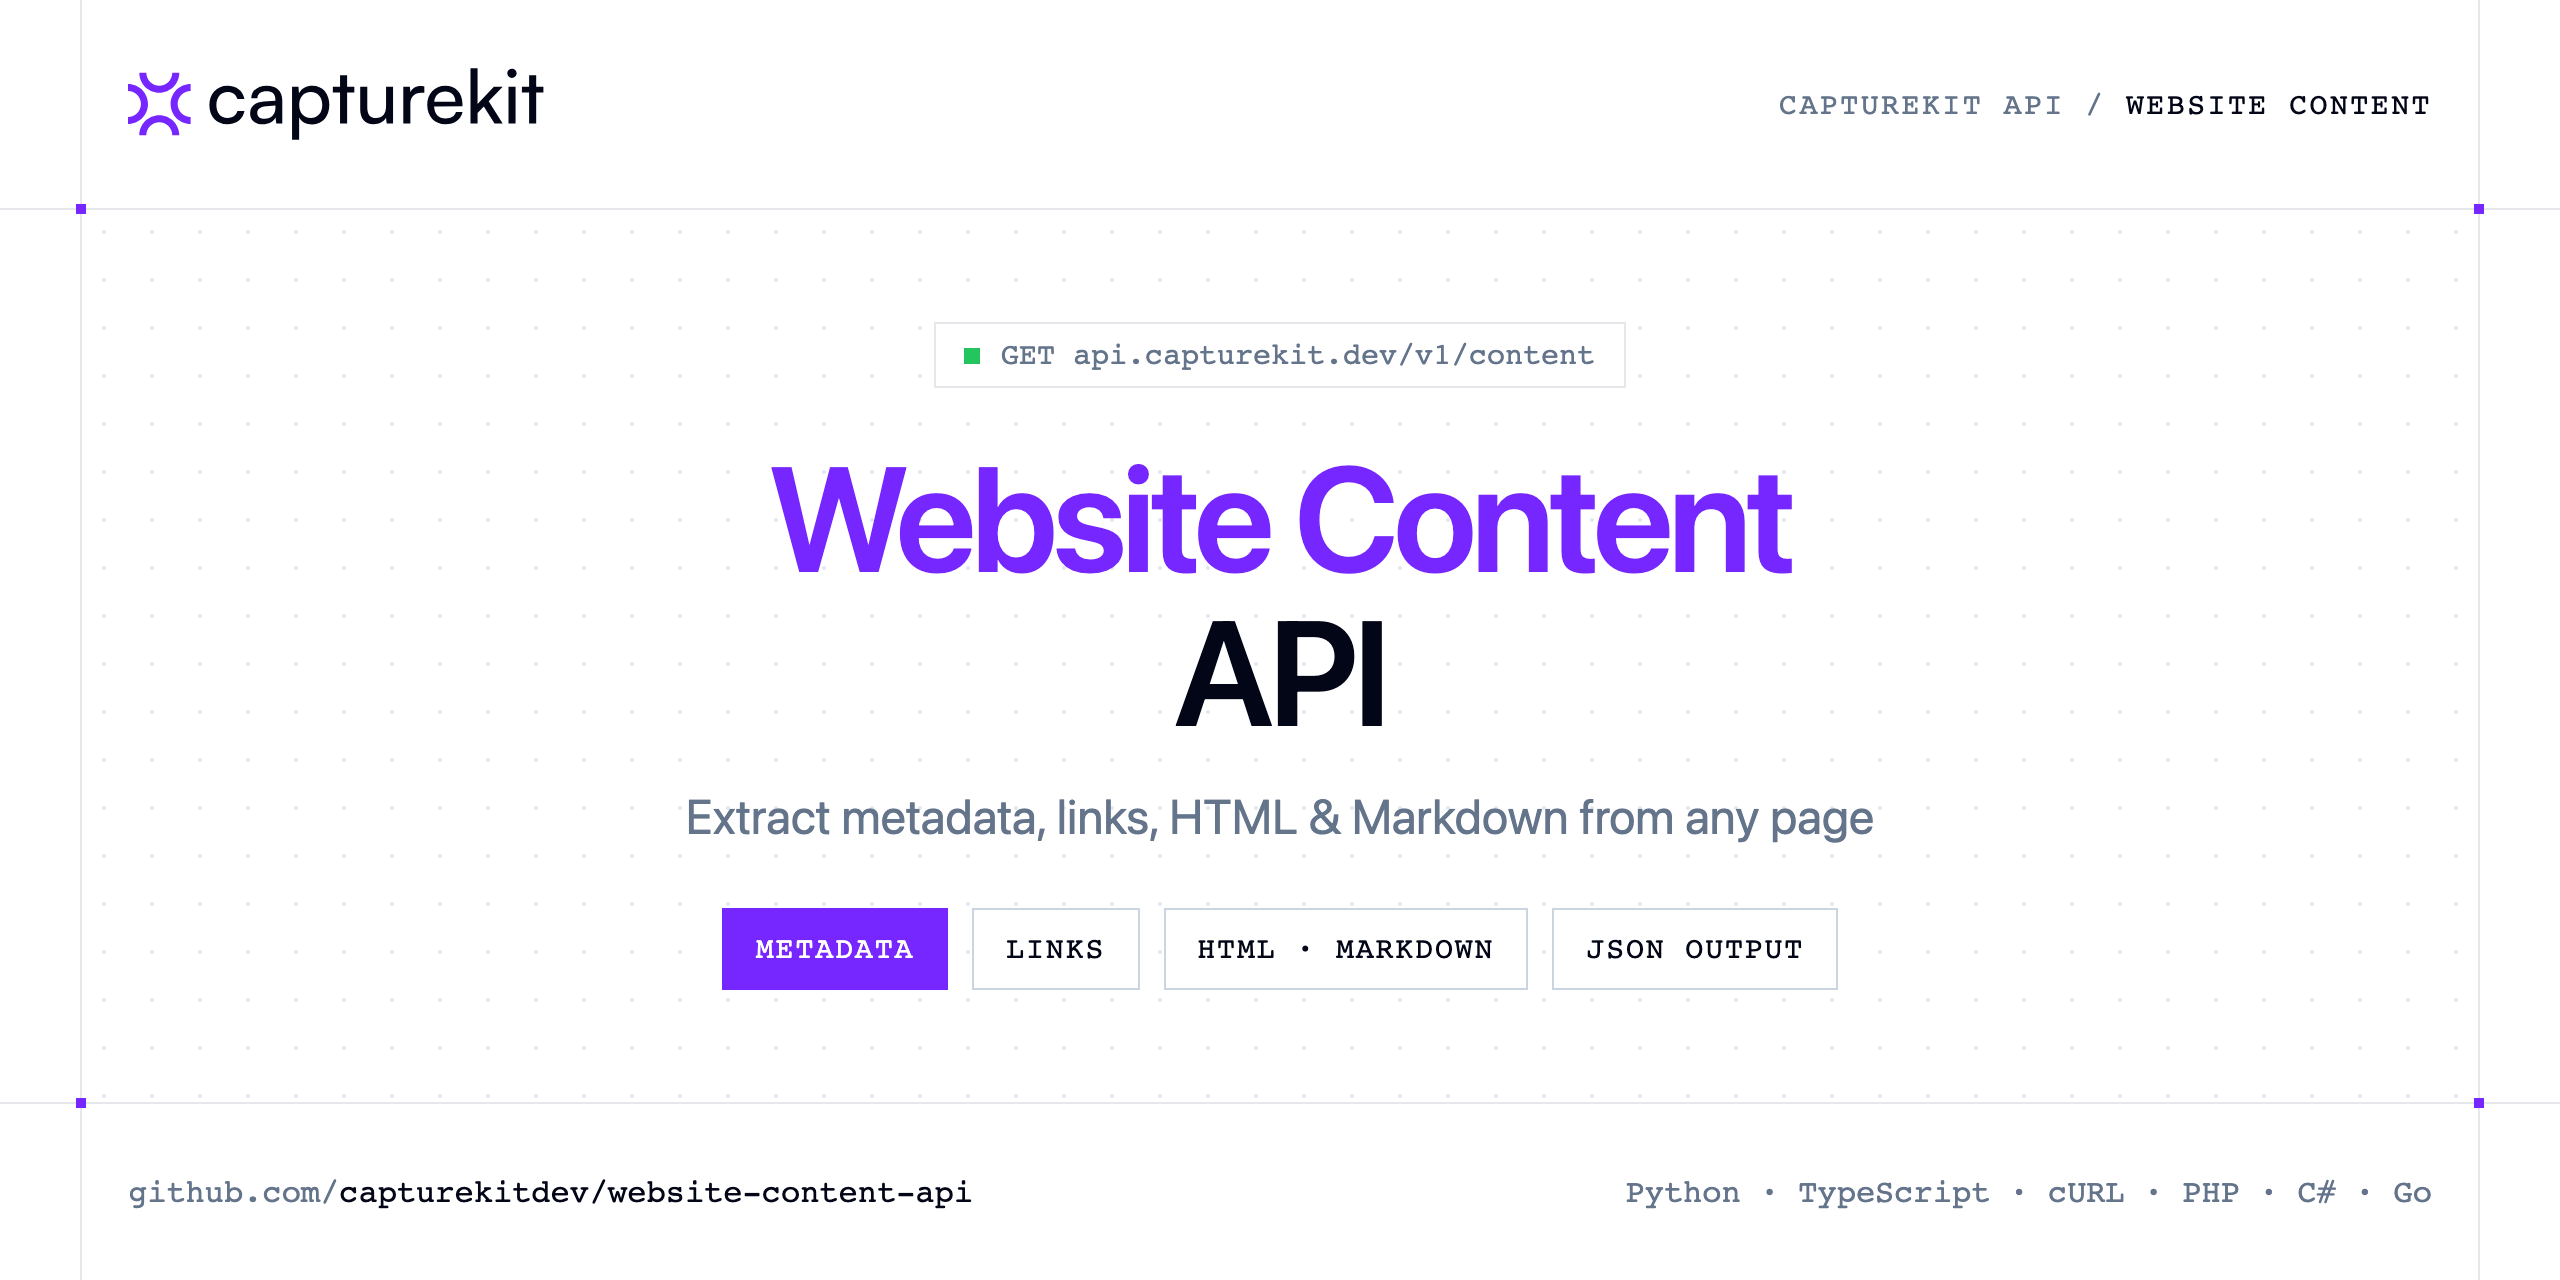
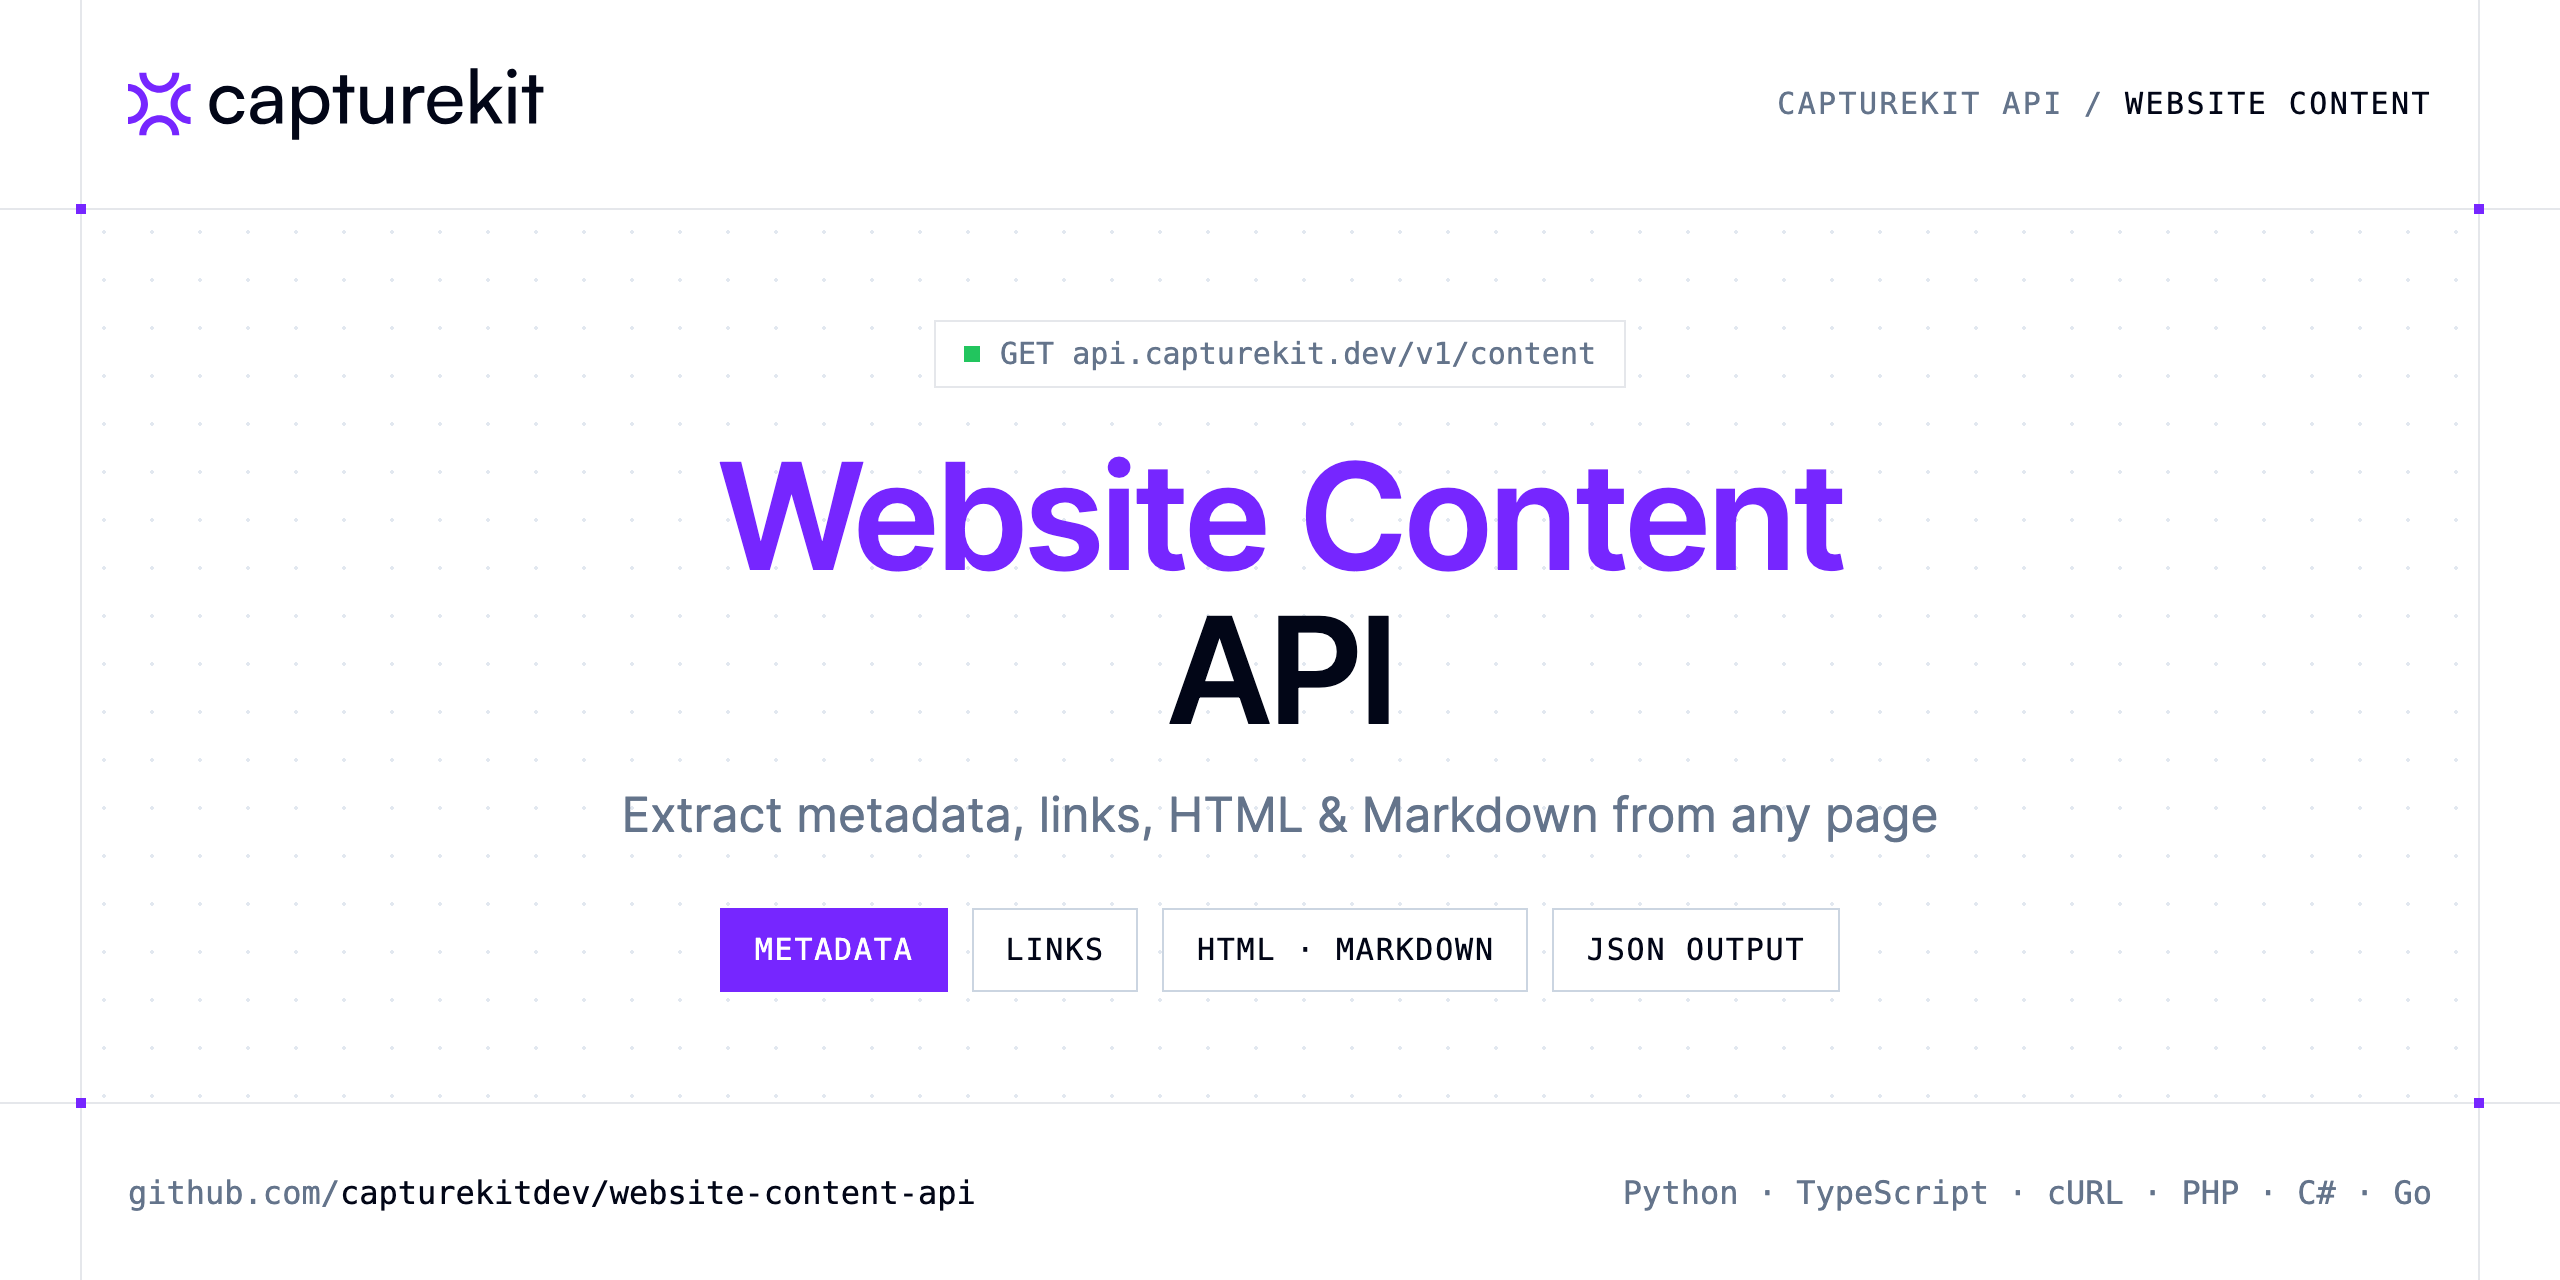
Update Website Content API examples and docs

diff --git a/README.md b/README.md
@@ -209,7 +209,7 @@ Any language that can make an HTTP request. This README shows Python and TypeScr
 
 ## Related repositories
 
-- [Screenshot API](https://github.com/capturekitdev/screenshot-api)
+- [Screenshot API](https://github.com/capturekitdev/website-screenshot-api)
 - [Full Page Screenshot API](https://github.com/capturekitdev/full-page-screenshot-api)
 - [Website to PDF API](https://github.com/capturekitdev/website-to-pdf-api)
 - [Mobile Screenshot API](https://github.com/capturekitdev/mobile-screenshot-api)
